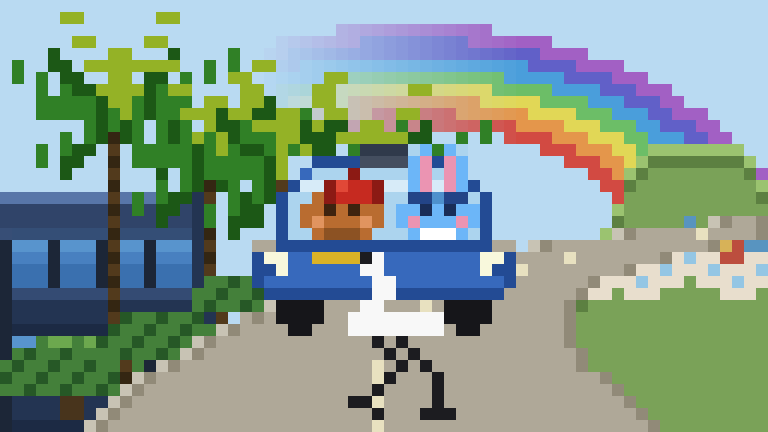
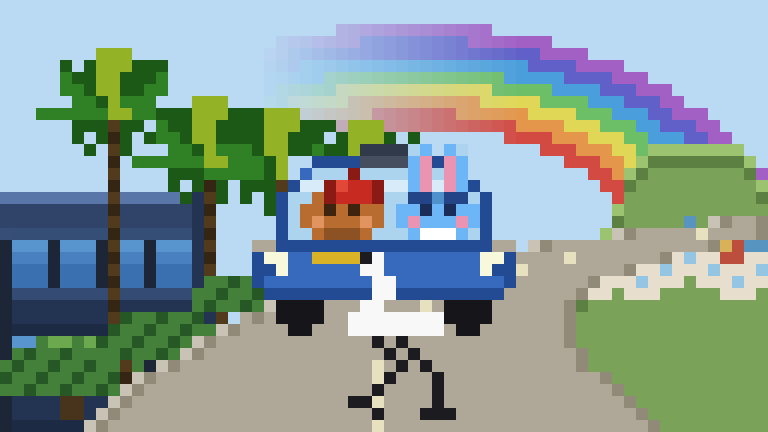
rainbow: 棕榈叶扇形极坐标填充，叶片不断

diff --git a/pixel_rainbow.py b/pixel_rainbow.py
@@ -169,34 +169,42 @@ def draw_palm(cx, base_y, height=10):
     ty = base_y - height
     # 大型发散叶片（辐射状，每片5~7格长）
     # 每片叶子是一条斜线，从中心往外
-    leaf_dirs = [
-        # (dx_step, dy_step, length, color)
-        (-1,  0, 6, PALM_LF),    # 正左
-        ( 1,  0, 6, PALM_LF),    # 正右
-        (-1, -1, 5, PALM_LFD),   # 左上45°
-        ( 1, -1, 5, PALM_LFD),   # 右上45°
-        ( 0, -1, 5, PALM_LFY),   # 正上
-        (-2, -1, 5, PALM_LF),    # 左偏上
-        ( 2, -1, 5, PALM_LF),    # 右偏上
-        (-1,  1, 4, PALM_LFD),   # 左下
-        ( 1,  1, 4, PALM_LFD),   # 右下
-        (-2,  1, 3, PALM_LF),    # 左偏下
-        ( 2,  1, 3, PALM_LF),    # 右偏下
-        (-1, -2, 4, PALM_LFY),   # 左上陡
-        ( 1, -2, 4, PALM_LFY),   # 右上陡
+    # 用扇形填充：在叶片之间插值补格，确保不断开
+    import math as _pm
+    # 定义扇区角度和长度（角度从正右顺时针，y轴向下）
+    # 上半圆（-180~0度）= 上方；下半圆 = 下方
+    # 用极坐标逐格扫描填充
+    _leaf_sectors = [
+        # (angle_deg, length, color)
+        (180, 6, PALM_LF),   # 正左
+        (150, 5, PALM_LF),
+        (135, 5, PALM_LFD),
+        (120, 5, PALM_LFD),
+        (105, 5, PALM_LFY),
+        ( 90, 5, PALM_LFY),  # 正上
+        ( 75, 5, PALM_LFY),
+        ( 60, 5, PALM_LFD),
+        ( 45, 5, PALM_LFD),
+        ( 30, 5, PALM_LF),
+        (  0, 6, PALM_LF),   # 正右
+        (210, 4, PALM_LFD),  # 左下
+        (240, 3, PALM_LFD),
+        (300, 3, PALM_LFD),
+        (330, 4, PALM_LFD),  # 右下
     ]
-    for ddx, ddy, length, lc in leaf_dirs:
+    for ang, length, lc in _leaf_sectors:
+        rad = _pm.radians(ang)
+        # 沿方向逐步走，每步补两格宽
+        dx = _pm.cos(rad); dy = -_pm.sin(rad)  # y轴向下取反
         for step in range(1, length+1):
-            bx = cx + ddx*step
-            by = ty + ddy*step
+            bx = round(cx + dx*step)
+            by = round(ty + dy*step)
             sp(bx, by, lc)
-            # 叶片加粗：垂直于叶片方向补1格
-            if ddy == 0:   # 水平叶 → 上下各补1
-                sp(bx, by-1, lc)
-            elif ddx == 0: # 垂直叶 → 左右各补1
-                sp(bx+1, by, lc)
-            else:           # 斜叶 → 顺着走向旁边补1
-                sp(bx, by+1, lc) if abs(ddx)>=abs(ddy) else sp(bx+1, by, lc)
+            # 垂直方向加粗（补相邻格）
+            pbx = round(cx + dx*(step-0.5))
+            pby = round(ty + dy*(step-0.5))
+            sp(pbx, pby, lc)
+    leaf_dirs = []  # 已用扇形替代
     sp(cx, ty, PALM_LFY); sp(cx+1, ty, PALM_LFY)
 
 def draw_oak(cx, base_y, r=4):
